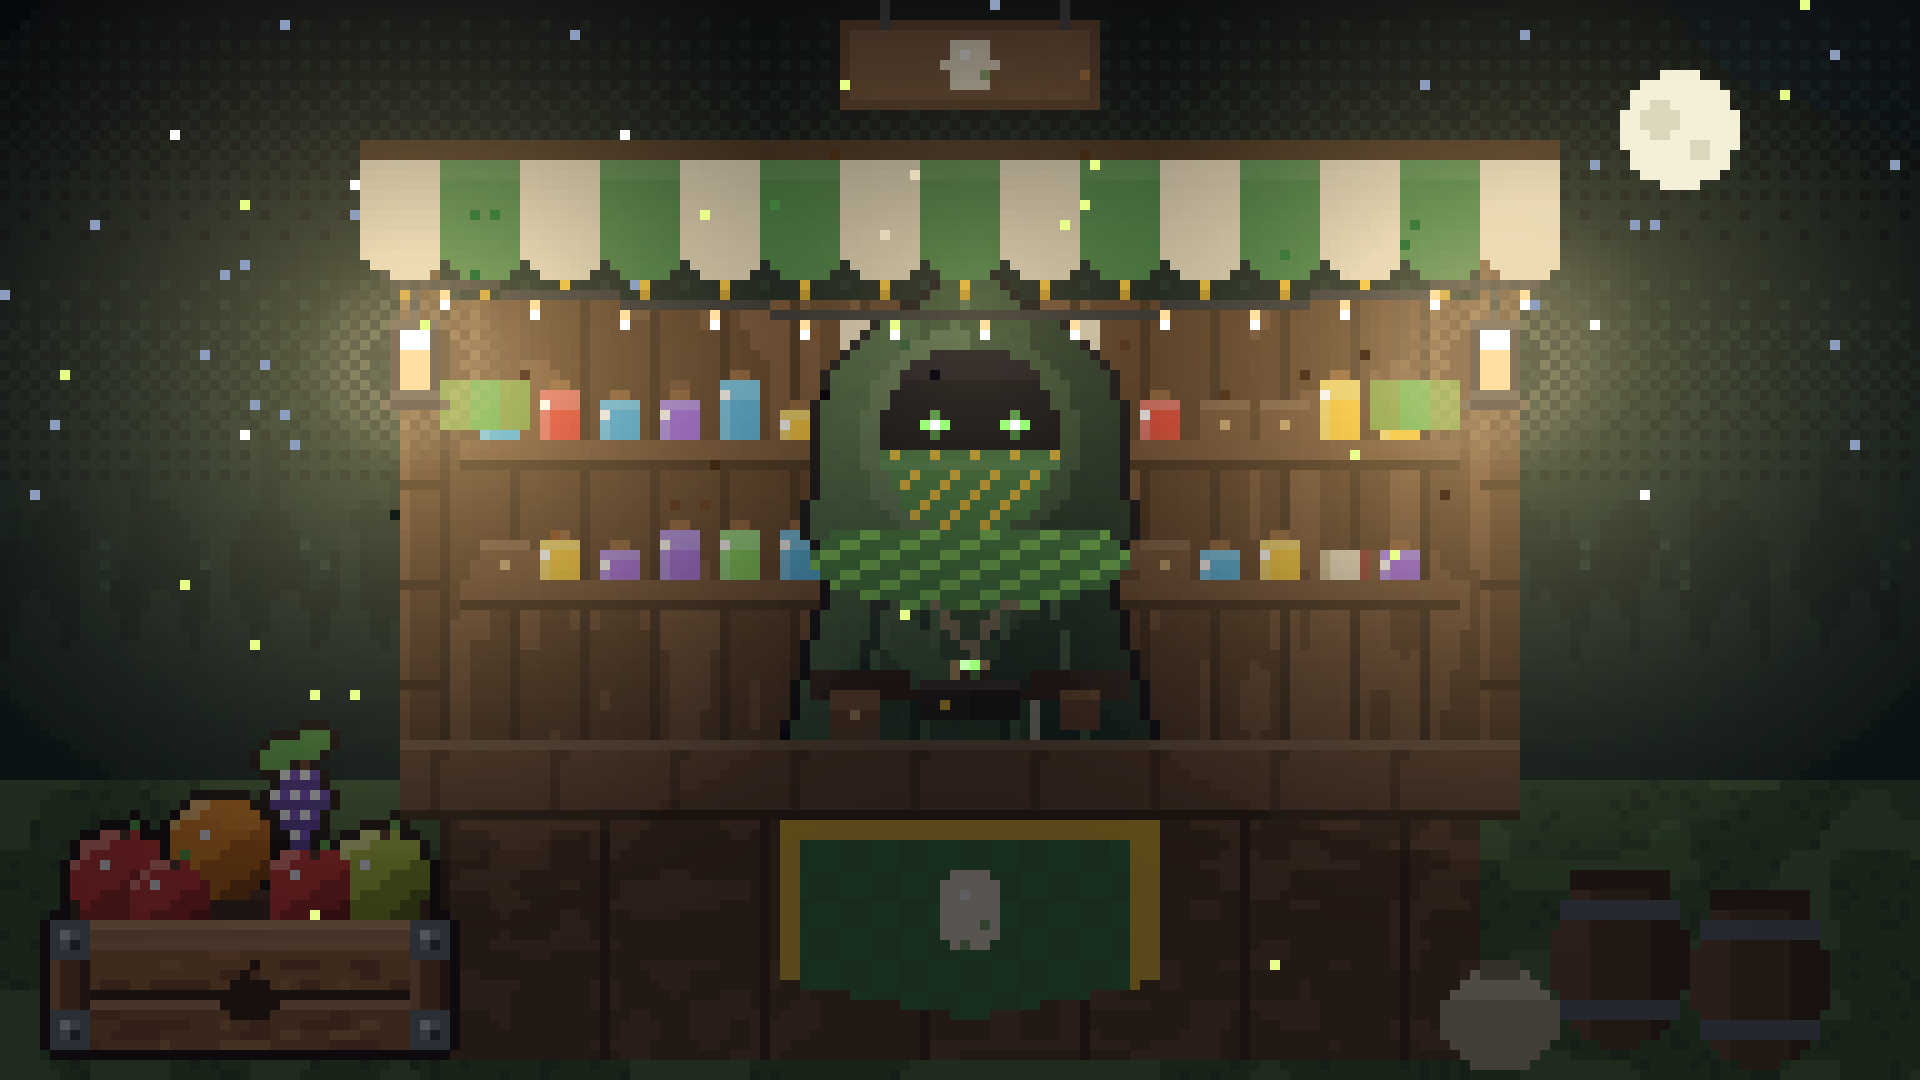
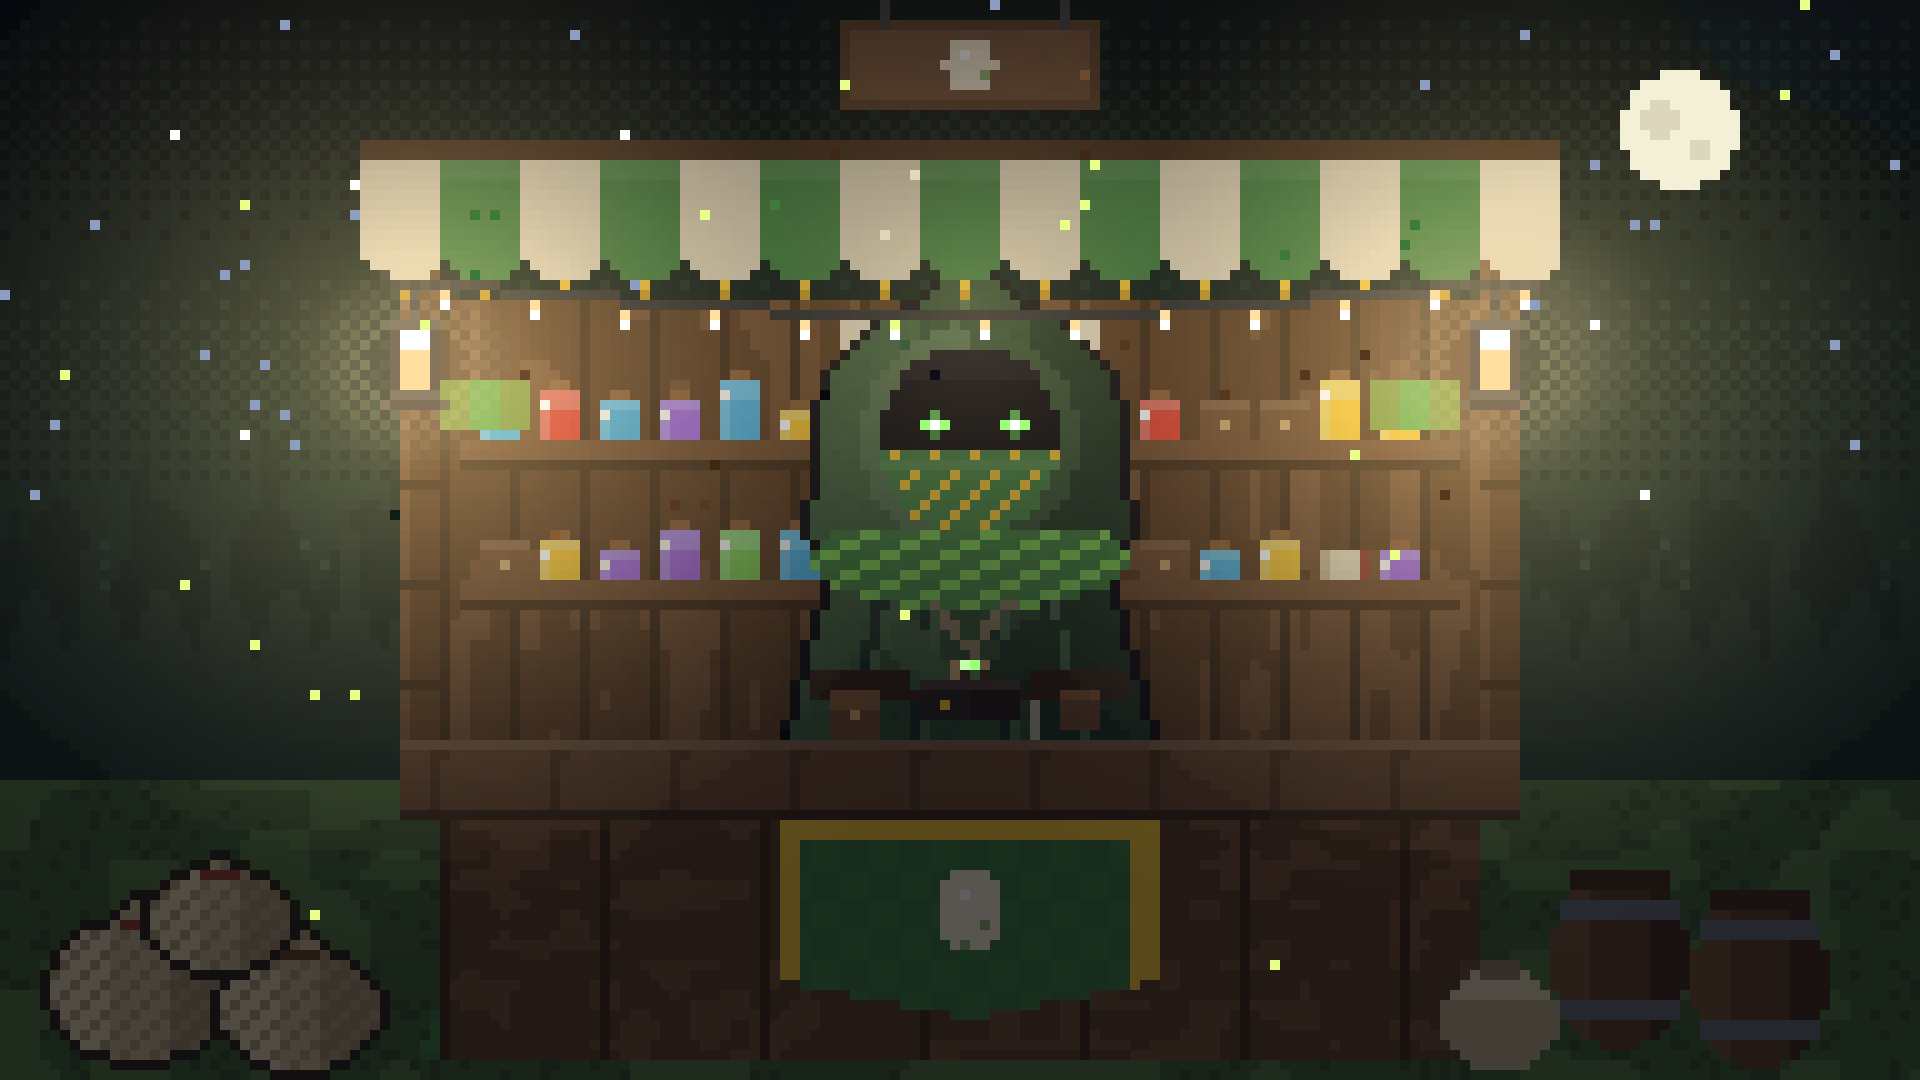
Marchand : produits ancrés sur le plateau du comptoir dans un cadre 16:9 (même place quel que soit le zoom), caisse de décor remplacée par des sacs

Changed region(s): [[0.0, 0.6722, 0.25, 1.0]]

diff --git a/style.css b/style.css
@@ -684,8 +684,11 @@
   .dp-merchant-trigger-timer { margin-left: auto; font-size: 11px; color: #000; font-family: 'Public Sans', sans-serif; font-weight: 500; }
 
   .dp-merchant-overlay { position: fixed; inset: 0; z-index: 300; overflow: hidden; }
-  .dp-merchant-bg { position: absolute; inset: 0; z-index: 0; }
-  .dp-merchant-bg img { position: absolute; inset: 0; width: 100%; height: 100%; object-fit: cover; object-position: center; display: block; }
+  /* Le fond garde toujours les proportions de l image (16:9) et couvre l écran ; les produits sont placés
+     DANS ce cadre, en % et en unités --u (1 % de sa largeur) : ils restent sur le plateau du comptoir
+     quel que soit le zoom ou la taille de la fenêtre. */
+  .dp-merchant-bg { position: absolute; left: 50%; top: 50%; z-index: 0; width: max(100vw, calc(100vh * 16 / 9)); height: max(100vh, calc(100vw * 9 / 16)); transform: translate(-50%, -50%); --u: calc(max(100vw, calc(100vh * 16 / 9)) / 100); }
+  .dp-merchant-bg img { position: absolute; inset: 0; width: 100%; height: 100%; object-fit: fill; display: block; }
   .dp-merchant-bg-fallback { display: none; position: absolute; inset: 0; align-items: center; justify-content: center; font-size: 140px; opacity: 0.35; }
   .dp-merchant-close { position: absolute; top: 20px; right: 20px; z-index: 5; width: 42px; height: 42px; border-radius: 50%; border: 2px solid rgba(255,255,255,0.5); background: rgba(0,0,0,0.5); color: #fff; font-size: 18px; cursor: pointer; display: flex; align-items: center; justify-content: center; }
   .dp-merchant-tools { position: absolute; top: 20px; left: 20px; z-index: 5; display: flex; gap: 8px; align-items: center; flex-wrap: wrap; max-width: calc(100% - 90px); }
@@ -696,17 +699,21 @@
   .dp-luck-pips span { width: 9px; height: 9px; border-radius: 50%; border: 1.5px solid rgba(255,255,255,0.7); }
   .dp-luck-pips span.on { background: #6fd36f; border-color: #6fd36f; }
   .dp-luck-hint { font-size: 11px; opacity: 0.75; }
-  .dp-merchant-table { position: absolute; left: 50%; bottom: 30%; transform: translateX(-50%); z-index: 2; display: flex; gap: 10px; padding: 0 24px; flex-wrap: nowrap; justify-content: space-between; width: 76vw; max-width: 1500px; min-width: 780px; }
+  .dp-merchant-table { position: absolute; left: 50%; bottom: 26.9%; transform: translateX(-50%); z-index: 2; display: flex; gap: calc(var(--u) * 0.6); padding: 0; flex-wrap: nowrap; justify-content: center; align-items: flex-end; width: 56%; }
   .dp-merchant-card { background: rgba(255,255,255,0.16); backdrop-filter: blur(5px); -webkit-backdrop-filter: blur(5px); border: 2px solid rgba(255,255,255,0.4); border-radius: 12px; padding: 14px; display: flex; flex-direction: column; align-items: center; gap: 6px; width: 168px; box-shadow: 0 6px 14px rgba(0,0,0,0.4); flex: none; }
-  .dp-merchant-card .dp-egg-img { width: 116px; height: 116px; }
+  .dp-merchant-card { flex: none; width: calc(var(--u) * 10.2); padding: calc(var(--u) * 0.6) !important; border-radius: calc(var(--u) * 0.6) !important; gap: calc(var(--u) * 0.25) !important; }
+  .dp-merchant-card .dp-egg-img { width: calc(var(--u) * 5.4); height: calc(var(--u) * 5.4); }
+  .dp-merchant-card .dp-egg-name, .dp-merchant-card .dp-egg-price, .dp-merchant-card .dp-rarity, .dp-merchant-card .dp-egg-warn { font-size: calc(var(--u) * 0.66); }
+  .dp-merchant-card .btn { font-size: calc(var(--u) * 0.66); padding: calc(var(--u) * 0.25) calc(var(--u) * 0.6); }
+  .dp-merchant-table .dp-empty-note { font-size: calc(var(--u) * 0.8); color: #fff; text-shadow: 0 1px 3px rgba(0,0,0,0.7); }
   .dp-merchant-card .dp-egg-name, .dp-merchant-card .dp-egg-price { color: #fff; text-shadow: 0 1px 3px rgba(0,0,0,0.6); }
   .dp-merchant-card[onclick] { cursor: pointer; }
   .dp-merchant-card-selected { border-color: var(--accent); box-shadow: 0 0 0 3px var(--accent-soft), 0 6px 14px rgba(0,0,0,0.4); }
 
-  .dp-merchant-table-objects { justify-content: center; gap: 16px; bottom: 30%; }
+  .dp-merchant-table-objects { justify-content: center; gap: calc(var(--u) * 0.6); bottom: 26.9%; }
 
-  .dp-crate-card { position: relative; width: 216px; height: 216px; flex: none; display: flex; align-items: center; justify-content: center; }
-  .dp-crate-card .dp-crate-img, .dp-crate-card .dp-object-icon { width: 188px; height: 188px; object-fit: contain; filter: drop-shadow(0 4px 8px rgba(0,0,0,0.5)); transition: transform .15s ease; }
+  .dp-crate-card { position: relative; width: calc(var(--u) * 8.6); height: calc(var(--u) * 7); flex: none; display: flex; align-items: flex-end; justify-content: center; }
+  .dp-crate-card .dp-crate-img, .dp-crate-card .dp-object-icon { width: 100%; height: 100%; object-fit: contain; object-position: bottom; filter: drop-shadow(0 4px 8px rgba(0,0,0,0.5)); transition: transform .15s ease; }
   .dp-crate-card:hover .dp-crate-img, .dp-crate-card:hover .dp-object-icon { transform: scale(1.06); }
   .dp-crate-card .dp-object-icon { display: flex; align-items: center; justify-content: center; font-size: 54px; }
   .dp-crate-tooltip {

diff --git a/index.html b/index.html
@@ -15,7 +15,7 @@
 <link rel="preconnect" href="https://fonts.googleapis.com">
 <link rel="preconnect" href="https://fonts.gstatic.com" crossorigin>
 <link href="https://fonts.googleapis.com/css2?family=Press+Start+2P&family=Public+Sans:wght@400;500;600;700;800&display=swap" rel="stylesheet">
-<link rel="stylesheet" href="style.css?v=63">
+<link rel="stylesheet" href="style.css?v=64">
 <link rel="stylesheet" href="https://cdn.jsdelivr.net/npm/katex@0.16.11/dist/katex.min.css">
 <script src="https://cdn.jsdelivr.net/npm/katex@0.16.11/dist/katex.min.js"></script>
 <script src="https://cdn.jsdelivr.net/npm/katex@0.16.11/dist/contrib/auto-render.min.js"></script>
@@ -44,16 +44,16 @@
 </div>
 <div id="app"></div>
 <div class="toast-stack" id="toastStack"></div>
-<script src="js/01-core.js?v=166"></script>
-<script src="js/02-ia.js?v=166"></script>
-<script src="js/03-podcast-methodo.js?v=166"></script>
-<script src="js/04-prepa.js?v=166"></script>
-<script src="js/05-data-dinopark.js?v=166"></script>
-<script src="js/06-pages.js?v=166"></script>
-<script src="js/07-editeur-outils.js?v=166"></script>
-<script src="js/08-fenetres.js?v=166"></script>
-<script src="js/09-app.js?v=166"></script>
-<script src="js/10-calendrier-aujourdhui.js?v=166"></script>
-<script src="js/11-routeur-demarrage.js?v=166"></script>
+<script src="js/01-core.js?v=167"></script>
+<script src="js/02-ia.js?v=167"></script>
+<script src="js/03-podcast-methodo.js?v=167"></script>
+<script src="js/04-prepa.js?v=167"></script>
+<script src="js/05-data-dinopark.js?v=167"></script>
+<script src="js/06-pages.js?v=167"></script>
+<script src="js/07-editeur-outils.js?v=167"></script>
+<script src="js/08-fenetres.js?v=167"></script>
+<script src="js/09-app.js?v=167"></script>
+<script src="js/10-calendrier-aujourdhui.js?v=167"></script>
+<script src="js/11-routeur-demarrage.js?v=167"></script>
 </body>
 </html>

diff --git a/js/01-core.js b/js/01-core.js
@@ -2,7 +2,7 @@
 // Studino — stockage, images, audio, schémas
 // Fichier chargé dans l'ordre par index.html : les fichiers partagent les mêmes variables globales.
 
-  var APP_VERSION = "13.4"; // +0.1 à chaque push sur GitHub, pour que l'utilisateur puisse vérifier qu'il a bien la dernière version
+  var APP_VERSION = "13.5"; // +0.1 à chaque push sur GitHub, pour que l'utilisateur puisse vérifier qu'il a bien la dernière version
   // Installation sur l'écran d'accueil : Chrome/Edge/Android proposent l'installation par un événement
   // qu'on garde pour le bouton des paramètres ; l'iPhone n'en a pas, on explique la marche à suivre.
   var installPromptEvent = null;

diff --git a/js/06-pages.js b/js/06-pages.js
@@ -224,9 +224,11 @@
       '<div class="dp-merchant-bg" style="background:linear-gradient(180deg,' + zone.color + ',#1a1a1a)">' +
       '<img src="' + bgPath + '" alt="" onerror="this.style.display=\'none\';this.nextElementSibling.style.display=\'flex\'">' +
       '<div class="dp-merchant-bg-fallback">' + zone.emoji + '</div>' +
+      // les produits sont DANS le cadre de l'image : ils restent sur le plateau du comptoir quel que soit le zoom
+      tableHtml +
       '</div>' +
       '<button class="dp-merchant-close" onclick="App.dpCloseMerchant()">✕</button>' +
-      toolsHtml + tableHtml;
+      toolsHtml;
     document.body.appendChild(overlay);
   }
 

diff --git a/sw.js b/sw.js
@@ -2,7 +2,7 @@
 // Pages, scripts et styles : toujours la version en ligne d'abord (pour avoir les mises à jour),
 // la copie gardée seulement si le réseau ne répond pas. Images et sons : la copie gardée d'abord.
 // Les autres sites (IA Gemini, bibliothèques) ne passent pas par ici.
-var CACHE = "studino-v2"; // à changer quand les images changent : les anciennes copies en cache sont supprimées
+var CACHE = "studino-v3"; // à changer quand les images changent : les anciennes copies en cache sont supprimées
 
 self.addEventListener("install", function () { self.skipWaiting(); });
 self.addEventListener("activate", function (e) {
